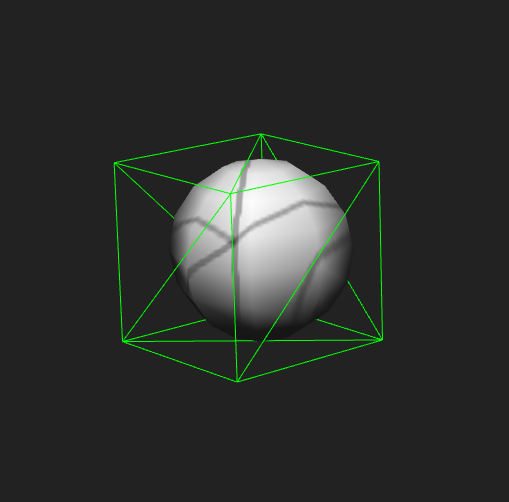
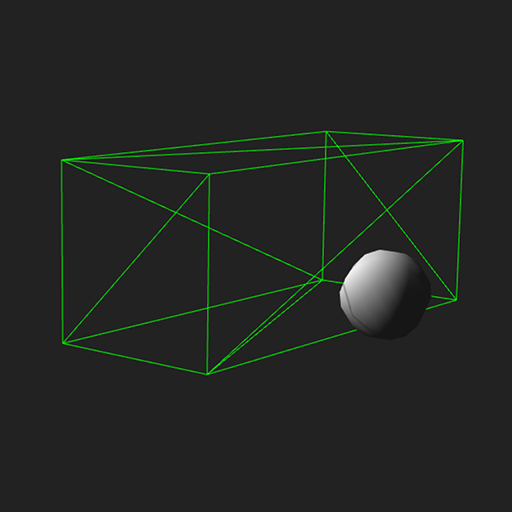
Adjust the trigger demo

diff --git a/examples/trigger.html b/examples/trigger.html
@@ -12,46 +12,52 @@
       import { Demo } from './js/Demo.js'
 
       /**
-       * Demonstrates how to make use of trigger to allow others body to pass through them, yet still emit collision events
+       * Demonstrates the use of trigger bodies, bodies which don't
+       * collide with other bodies and allow you to run callbacks
+       * when another body enters/exits them.
        */
       const demo = new Demo()
 
       demo.addScene('Trigger', () => {
         const world = setupWorld(demo)
 
-        const boxShape = new CANNON.Box(new CANNON.Vec3(1, 1, 1))
-        const sphereShape = new CANNON.Sphere(1)
+        const radius = 1
+
+        // Sphere moving towards right
+        const sphereShape = new CANNON.Sphere(radius)
+        const sphereBody = new CANNON.Body({ mass: 1 })
+        sphereBody.addShape(sphereShape)
+        sphereBody.position.set(-5, 0, 0)
+        const impulse = new CANNON.Vec3(5.5, 0, 0)
+        const topPoint = new CANNON.Vec3(0, radius, 0)
+        sphereBody.applyImpulse(impulse, topPoint)
+        sphereBody.linearDamping = 0.3
+        sphereBody.angularDamping = 0.3
+        world.addBody(sphereBody)
+        demo.addVisual(sphereBody)
 
         // Trigger body
-        const triggerBox = new CANNON.Body({ isTrigger: true })
-        triggerBox.addShape(boxShape)
-        triggerBox.position.set(-5, 0, 0)
-        world.addBody(triggerBox)
-        demo.addVisual(triggerBox)
+        const boxShape = new CANNON.Box(new CANNON.Vec3(2, 2, 5))
+        const triggerBody = new CANNON.Body({ isTrigger: true })
+        triggerBody.addShape(boxShape)
+        triggerBody.position.set(5, radius, 0)
+        world.addBody(triggerBody)
+        demo.addVisual(triggerBody)
 
-        // Sphere
-        const movingSphere = new CANNON.Body({ mass: 5 })
-        movingSphere.addShape(sphereShape)
-        movingSphere.position.set(5, 0, 0)
-        movingSphere.velocity.set(-5, 0, 0)
-        movingSphere.linearDamping = 0
-        world.addBody(movingSphere)
-        demo.addVisual(movingSphere)
-
-        // When a body collides with another body, they both dispatch the "collide" event.
-        triggerBox.addEventListener('collide', (event) => {
-          console.log('The box trigger was collided!', event)
+        // It is possible to run code on the exit/enter
+        // of the trigger.
+        triggerBody.addEventListener('collide', (event) => {
+          if (event.body === sphereBody) {
+            console.log('The sphere entered the trigger!', event)
+          }
         })
-        movingSphere.addEventListener('collide', (event) => {
-          console.log('The sphere was collided!', event)
-        })
-
-        // When two bodies collide they also emit contact events
         world.addEventListener('endContact', (event) => {
-          console.log('World end contact event', event)
-        })
-        world.addEventListener('beginContact', (event) => {
-          console.log('World begin contact event', event)
+          if (
+            (event.bodyA === sphereBody && event.bodyB === triggerBody) ||
+            (event.bodyB === sphereBody && event.bodyA === triggerBody)
+          ) {
+            console.log('The sphere exited the trigger!', event)
+          }
         })
       })
 

diff --git a/examples/js/Demo.js b/examples/js/Demo.js
@@ -896,8 +896,8 @@ class Demo extends CANNON.EventTarget {
     }
 
     // if it's a particle paint it red, if it's a trigger paint it as green, otherwise just gray
-    const isParticule = body.shapes.every((s) => s instanceof CANNON.Particle)
-    const material = isParticule ? this.particleMaterial : body.isTrigger ? this.triggerMaterial : this.currentMaterial
+    const isParticle = body.shapes.every((s) => s instanceof CANNON.Particle)
+    const material = isParticle ? this.particleMaterial : body.isTrigger ? this.triggerMaterial : this.currentMaterial
 
     // get the correspondant three.js mesh
     const mesh = bodyToMesh(body, material)

diff --git a/src/objects/Body.ts b/src/objects/Body.ts
@@ -131,7 +131,12 @@ export class Body extends EventTarget {
   aabbNeedsUpdate: boolean // Indicates if the AABB needs to be updated before use.
   boundingRadius: number // Total bounding radius of the Body including its shapes, relative to body.position.
   wlambda: Vec3
-  isTrigger: boolean // When true "collide" events are still triggered but bodies do not interact.
+  /**
+   * When true the body behaves like a trigger. It does not collide
+   * with other bodies but collision events are still triggered.
+   * @default false
+   */
+  isTrigger: boolean
 
   static idCounter: number
   static COLLIDE_EVENT_NAME: 'collide'

diff --git a/readme.md b/readme.md
@@ -6,16 +6,16 @@ It's a type-safe flatbundle (esm and cjs) which allows for **tree shaking** and 
 
 These minor changes and improvements were also made:
 
-- These PRs from the original repo were merged: [schteppe/cannon.js#433](https://github.com/schteppe/cannon.js/pull/433), [schteppe/cannon.js#430](https://github.com/schteppe/cannon.js/pull/430), [schteppe/cannon.js#418](https://github.com/schteppe/cannon.js/pull/418), [schteppe/cannon.js#360](https://github.com/schteppe/cannon.js/pull/360), [schteppe/cannon.js#265](https://github.com/schteppe/cannon.js/pull/265), [schteppe/cannon.js#392](https://github.com/schteppe/cannon.js/pull/392)
+- These PRs from the original repo were merged: [schteppe/cannon.js#433](https://github.com/schteppe/cannon.js/pull/433), [schteppe/cannon.js#430](https://github.com/schteppe/cannon.js/pull/430), [schteppe/cannon.js#418](https://github.com/schteppe/cannon.js/pull/418), [schteppe/cannon.js#360](https://github.com/schteppe/cannon.js/pull/360), [schteppe/cannon.js#265](https://github.com/schteppe/cannon.js/pull/265), [schteppe/cannon.js#392](https://github.com/schteppe/cannon.js/pull/392), [schteppe/cannon.js#424](https://github.com/schteppe/cannon.js/pull/424)
 - The `ConvexPolyhedron` constructor now accepts an object instead of a list of arguments. [#6](https://github.com/pmndrs/cannon-es/pull/6)
 - The `Cylinder` is now oriented on the Y axis. [#30](https://github.com/pmndrs/cannon-es/pull/30)
 - The `type` property of the `Cylinder` is now equal to `Shape.types.CYLINDER`. [#59](https://github.com/pmndrs/cannon-es/pull/59)
 - `Body.applyImpulse()` and `Body.applyForce()` are now relative to the center of the body instead of the center of the world [86b0444](https://github.com/schteppe/cannon.js/commit/86b0444c93356aeaa25dd1af795fa162574c6f4b)
 - Sleeping bodies now wake up if a force or an impulse is applied to them [#61](https://github.com/pmndrs/cannon-es/pull/61)
 - Added a property `World.hasActiveBodies: boolean` which will be false when all physics bodies are sleeping. This allows for invalidating frames when physics aren't active for increased performance.
+- Add support for [Trigger bodies](https://pmndrs.github.io/cannon-es/examples/trigger). [#79](https://github.com/pmndrs/cannon-es/pull/79)
 - Deprecated properties and methods have been removed.
 - The [original cannon.js debugger](https://github.com/schteppe/cannon.js/blob/master/tools/threejs/CannonDebugRenderer.js), which shows the wireframes of each body, has been moved to its own repo [cannon-es-debugger](https://github.com/pmndrs/cannon-es-debugger).
-- Added a property `Body.isTrigger : boolean` which, when true allows for the body to trigger collision events without interacting physically with the other colliding bodies.
 
 If instead you're using three.js in a **React** environment with [react-three-fiber](https://github.com/pmndrs/react-three-fiber), check out [use-cannon](https://github.com/pmndrs/use-cannon)! It's a wrapper around cannon-es.
 
